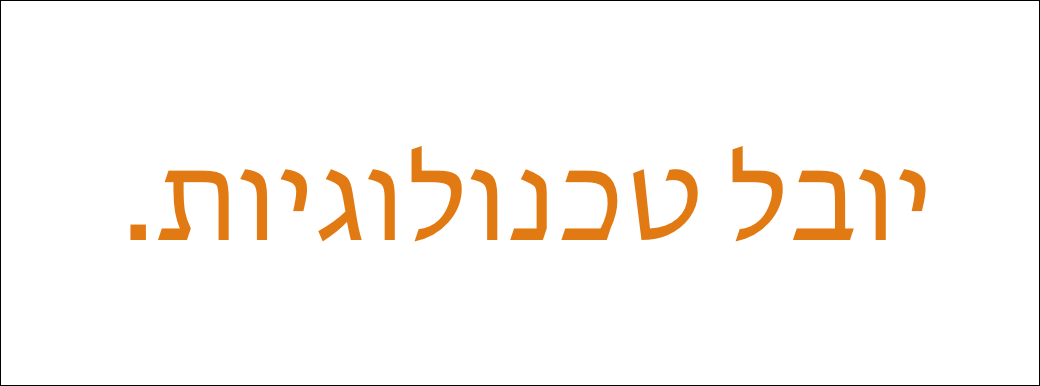
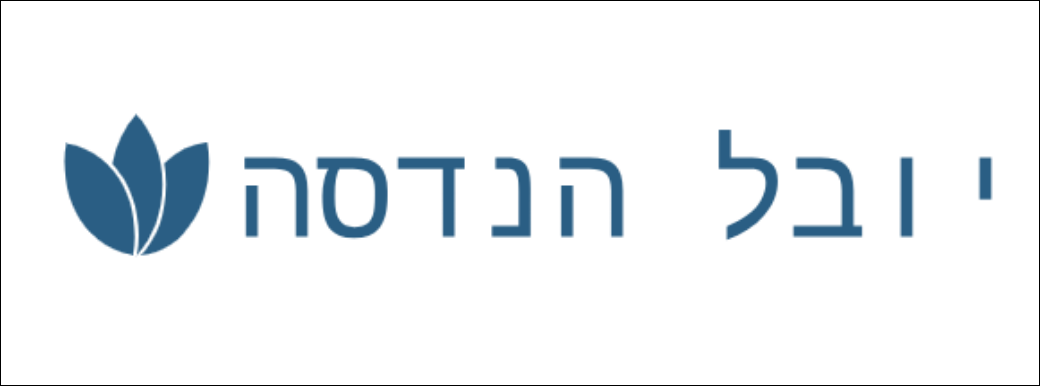
new

Changed region(s): [[0.0615, 0.2798, 0.8923, 0.6839], [0.9231, 0.4041, 0.9538, 0.5285]]

diff --git a/index.html b/index.html
@@ -7,7 +7,8 @@
 <html lang="he">
 <head>
 	<meta charset="utf-8" />
-	<title>Telephasic - תפריט קבוע למעלה, לבן בהובר, עמוד הבית באמצע</title>
+	<title>EasyVent - ניהול אירועים</title>
+	<link rel="icon" type="image/png" href="images/easyventlogomain.png">
 	<meta name="viewport" content="width=device-width, initial-scale=1, user-scalable=no" />
 
 	<!-- CSS הראשי של Telephasic -->
@@ -369,7 +370,7 @@
 			  </div>
 
 		<!-- ======== Services נוספים (מוסתר בהתחלה) ======== -->
-		<div class="wrapper features-background" id="extraServices" style="display: none;">
+		<div class="wrapper features-background" id="extraServices">
 			<section class="container">
 			  <header class="major reveal">
 				<h2>שירותים נוספים</h2>
@@ -530,7 +531,7 @@
 
 		
 		<!-- ======== בואו נתחיל ======== -->
-		<div class="wrapper" style="margin-top: 0px;">
+		<div class="wrapper" style="margin-top: 0px; margin-bottom: 170px;">
 			<div class="container">
 				<header class="major reveal">
 					<p style="font-size: 2.5em; font-weight: bold; color: #ff69b4; margin-bottom: 40px; text-shadow: 2px 2px 4px rgba(0,0,0,0.3);">
@@ -580,7 +581,7 @@
 				</div>
 			</div>
 		</div>
-		<div class="wrapper" id="pricing" style="margin-top: -250px;">
+		<div class="wrapper" id="pricing" style="margin-top: -250px; background-image: url('images/buildweb.png'); background-size: cover; background-position: center; padding: 20px 0 160px 0;">
 			<section class="container">
 			  <header class="major">
 				<p style="font-size: 2.5em; font-weight: bold; color: #ff69b4; margin-bottom: 40px; text-shadow: 2px 2px 4px rgba(0,0,0,0.3);">
@@ -588,10 +589,10 @@
 				  </p>
 							  </header>
 			  
-			  <div class="pricing-container">
-				<!-- חבילה משלימה -->
-				<div class="package">
-				  <h3>חבילה משלימה</h3>
+			<div class="pricing-container" style="display: flex; flex-wrap: wrap; gap: 30px; justify-content: center;">
+					<!-- חבילה משלימה -->
+					<div class="package" style="background: white; border-radius: 15px; padding: 20px; box-shadow: 0 4px 12px rgba(0,0,0,0.1); flex: 1 1 300px; max-width: 350px;">
+						<h3>חבילה משלימה</h3>
 
 				  <div class="package-details">
 					<ul>
@@ -639,43 +640,53 @@
 				  </div>
 				  <button class="purchase-button">רכישה</button>
 				</div>
-				
-				<!-- חבילה בסיסית -->
+				<!-- חבילה דיגיטלית -->
 				<div class="package">
-				  <h3>חבילה בסיסית</h3>
-				  <div class="package-details">
-					<ul>
-					  <li>✅ שליחת הזמנות <span class="highlight">אוטומטי ב-WhatsApp</span> (לאישור הגעה)</li>
-					  <li>✅ שליחת סבב נוסף <span class="highlight">אוטומטי ב-WhatsApp</span></li>
-					  <li>✅ סידור שולחנות <span class="highlight">אוטומטי</span></li>
-					</ul>
-				  </div>
-				  <h3 style="color: #fff;">.</h3>
-				  <h3 style="color: #fff;">.</h3>
-				  <h3 style="color: #fff;">.</h3>
-				  <h3 style="color: #fff;">.</h3>
-				  <h3 style="color: #fff;">.</h3>
-				  <h3 style="color: #fff;">.</h3>
-				  <h3 style="color: #fff;">.</h3>
-				  <h3 style="color: #fff;">.</h3>
-				  <h3 style="color: #fff;">.</h3>
-
-				  <div class="package-icons">
-					<div class="icon-item">
-					  <img src="assets/whatsapp.png" alt="WhatsApp Icon">
-					  <span>סבב ראשון</span>
+					<h3>חבילה דיגיטלית</h3>
+					<div class="package-details">
+					  <ul>
+						<li>✅ שליחת הזמנות <span class="highlight">אוטומטי ב-WhatsApp</span> (לאישור הגעה)</li>
+						<li>✅ שליחת סבב נוסף <span class="highlight">אוטומטי ב-WhatsApp</span></li>
+						<li>✅ שיחות לאורחים שלא אישרו הגעה ע"י מוקד אנושי</li>
+						<li>✅ סידור שולחנות <span class="highlight">אוטומטי</span></li>
+						<li>✅ שליחת תודות <span class="highlight">WhatsApp</span> אחרי האירוע</li>
+					  </ul>
+					  <p><strong>כוללת גם:</strong></p>
+					  <ul>
+						<li>✅ מענה טלפוני להתייעצות (8:00 - 20:00)</li>
+					  </ul>
 					</div>
-					<div class="icon-item">
-					  <img src="assets/whatsapp.png" alt="WhatsApp Icon">
-					  <span>סבב שני</span>
+					<h3 style="color: #fff;">.</h3>
+					<h3 style="color: #fff;">.</h3>
+					<div class="package-icons">
+					  <div class="icon-item">
+						<img src="assets/whatsapp.png" alt="WhatsApp Icon">
+						<span>סבב ראשון</span>
+					  </div>
+					  <div class="icon-item">
+						<img src="assets/whatsapp.png" alt="WhatsApp Icon">
+						<span>סבב שני</span>
+					  </div>
+					  <div class="icon-item">
+						<img src="assets/phone-call.png" alt="Phone Icon">
+						<span>סבב טלפוני</span>
+					  </div>
+					  <div class="icon-item">
+						<img src="assets/whatsapp.png" alt="WhatsApp Icon">
+						<span>תזכורת</span>
+					  </div>
+					  <div class="icon-item">
+						<img src="assets/whatsapp.png" alt="WhatsApp Icon">
+						<span>תודה רבה</span>
+					  </div>
 					</div>
+					<div class="package-price">
+					  <p>(<strong>מספר מוזמנים</strong> x 0.8₪)</p>
+					  <p>*המחיר לפי מספר מוזמנים</p>
+					</div>
+					<button class="purchase-button">רכישה</button>
 				  </div>
-				  <div class="package-price">
-					<p>(<strong>מספר מוזמנים</strong> x 0.4₪)</p>
-					<p>*המחיר לפי מספר מוזמנים</p>
-				  </div>
-				  <button class="purchase-button">רכישה</button>
-				</div>
+  
 				
 				<!-- חבילה פלוס -->
 				<div class="package">
@@ -722,52 +733,44 @@
 				  <button class="purchase-button">רכישה</button>
 				</div>
 				
-				<!-- חבילה דיגיטלית -->
+				
+				<!-- חבילה בסיסית -->
 				<div class="package">
-				  <h3>חבילה דיגיטלית</h3>
-				  <div class="package-details">
-					<ul>
-					  <li>✅ שליחת הזמנות <span class="highlight">אוטומטי ב-WhatsApp</span> (לאישור הגעה)</li>
-					  <li>✅ שליחת סבב נוסף <span class="highlight">אוטומטי ב-WhatsApp</span></li>
-					  <li>✅ שיחות לאורחים שלא אישרו הגעה ע"י מוקד אנושי</li>
-					  <li>✅ סידור שולחנות <span class="highlight">אוטומטי</span></li>
-					  <li>✅ שליחת תודות <span class="highlight">WhatsApp</span> אחרי האירוע</li>
-					</ul>
-					<p><strong>כוללת גם:</strong></p>
-					<ul>
-					  <li>✅ מענה טלפוני להתייעצות (8:00 - 20:00)</li>
-					</ul>
+					<h3>חבילה בסיסית</h3>
+					<div class="package-details">
+					  <ul>
+						<li>✅ שליחת הזמנות <span class="highlight">אוטומטי ב-WhatsApp</span> (לאישור הגעה)</li>
+						<li>✅ שליחת סבב נוסף <span class="highlight">אוטומטי ב-WhatsApp</span></li>
+						<li>✅ סידור שולחנות <span class="highlight">אוטומטי</span></li>
+					  </ul>
+					</div>
+					<h3 style="color: #fff;">.</h3>
+					<h3 style="color: #fff;">.</h3>
+					<h3 style="color: #fff;">.</h3>
+					<h3 style="color: #fff;">.</h3>
+					<h3 style="color: #fff;">.</h3>
+					<h3 style="color: #fff;">.</h3>
+					<h3 style="color: #fff;">.</h3>
+					<h3 style="color: #fff;">.</h3>
+					<h3 style="color: #fff;">.</h3>
+  
+					<div class="package-icons">
+					  <div class="icon-item">
+						<img src="assets/whatsapp.png" alt="WhatsApp Icon">
+						<span>סבב ראשון</span>
+					  </div>
+					  <div class="icon-item">
+						<img src="assets/whatsapp.png" alt="WhatsApp Icon">
+						<span>סבב שני</span>
+					  </div>
+					</div>
+					<div class="package-price">
+					  <p>(<strong>מספר מוזמנים</strong> x 0.4₪)</p>
+					  <p>*המחיר לפי מספר מוזמנים</p>
+					</div>
+					<button class="purchase-button">רכישה</button>
 				  </div>
-				  <h3 style="color: #fff;">.</h3>
-				  <h3 style="color: #fff;">.</h3>
-				  <div class="package-icons">
-					<div class="icon-item">
-					  <img src="assets/whatsapp.png" alt="WhatsApp Icon">
-					  <span>סבב ראשון</span>
-					</div>
-					<div class="icon-item">
-					  <img src="assets/whatsapp.png" alt="WhatsApp Icon">
-					  <span>סבב שני</span>
-					</div>
-					<div class="icon-item">
-					  <img src="assets/phone-call.png" alt="Phone Icon">
-					  <span>סבב טלפוני</span>
-					</div>
-					<div class="icon-item">
-					  <img src="assets/whatsapp.png" alt="WhatsApp Icon">
-					  <span>תזכורת</span>
-					</div>
-					<div class="icon-item">
-					  <img src="assets/whatsapp.png" alt="WhatsApp Icon">
-					  <span>תודה רבה</span>
-					</div>
-				  </div>
-				  <div class="package-price">
-					<p>(<strong>מספר מוזמנים</strong> x 0.8₪)</p>
-					<p>*המחיר לפי מספר מוזמנים</p>
-				  </div>
-				  <button class="purchase-button">רכישה</button>
-				</div>
+				  
 			  </div>
 			</section>
 		  </div>
@@ -803,10 +806,10 @@
 						  </div>
 						  
 						<header>
-							<h2>יובל טכנולוגיות</h2>
+							<h2>יובל הנדסה</h2>
 						</header>
 						<p>
-							יובל טכנולוגיות הינה חברה לפיתוח ויישום תוכנה. בין היתר, אנו מציעים שירותי אוטומציה למכשירים השונים. ניתן לפנות אלינו דרך האתר או באמצעות הודעת וואטסאפ במספר 0542455869
+							יובל הנדסה הינה חברה לפיתוח ויישום תוכנה. בין היתר, אנו מציעים שירותי אוטומציה למכשירים השונים. ניתן לפנות אלינו דרך האתר או באמצעות הודעת וואטסאפ במספר 0542455869
 						</p>
 						<ul class="actions">
 							<li><a href="bulding.html" class="button">לאתר החברה</a></li>
@@ -1274,24 +1277,35 @@
 
 	<!-- סקריפט לכפתור "שירותים נוספים" -->
 	<script>
-		document.addEventListener('DOMContentLoaded', () => {
-			const extraServicesBtn = document.getElementById('extraServicesBtn');
-			const extraServices = document.getElementById('extraServices');
-			let open = false;
+document.addEventListener('DOMContentLoaded', () => {
+  const extraServicesBtn = document.getElementById('extraServicesBtn');
+  const extraServices = document.getElementById('extraServices');
+  const mainFeatures = document.getElementById('main-features');
+  let open = false;
 
-			extraServicesBtn?.addEventListener('click', (e) => {
-				e.preventDefault();
-				if(!open) {
-					extraServices.style.display = 'block';
-					extraServicesBtn.textContent = 'סגור שירותים נוספים';
-					open = true;
-				} else {
-					extraServices.style.display = 'none';
-					extraServicesBtn.textContent = 'שירותים נוספים';
-					open = false;
-				}
-			});
-		});
+  extraServicesBtn?.addEventListener('click', (e) => {
+    e.preventDefault();
+
+    if (!open) {
+      extraServices.classList.add('open');
+      extraServicesBtn.textContent = 'סגור שירותים נוספים';
+      open = true;
+
+      setTimeout(() => {
+        extraServices.scrollIntoView({ behavior: 'smooth', block: 'start' });
+      }, 400);
+    } else {
+      extraServices.classList.remove('open');
+      extraServicesBtn.textContent = 'שירותים נוספים';
+      open = false;
+
+      setTimeout(() => {
+        mainFeatures.scrollIntoView({ behavior: 'smooth', block: 'start' });
+      }, 400);
+    }
+  });
+});
+
 	</script>
 </body>
 </html>

diff --git a/assets/css/main.css b/assets/css/main.css
@@ -3147,6 +3147,8 @@ transform: translate(-50%, -50%);
 		flex-wrap: nowrap;           /* מונע שבירה לשורות נוספות */
 		gap: 0px;
 		justify-content: center;
+		padding-top: 100px; /* נסה בין 80-120px */
+
 		margin-top: 0px;
 		overflow-x: auto;           /* במקרה שהמסך קטן – מתאפשר גלילה אופקית */
 	  }
@@ -3301,7 +3303,30 @@ transform: translate(-50%, -50%);
   }
   
   
+  .package {
+	transition: transform 0.3s ease, box-shadow 0.3s ease;
+	position: relative;
+	z-index: 10;
+  }
+  .package:hover {
+	transform: translateY(-10px);
+	box-shadow: 0 12px 25px rgba(0, 0, 0, 0.2);
+  }
+  .package:hover {
+	background-color: #fafafa;
+  }
   
   
-
+  #extraServices {
+	overflow: hidden;
+	max-height: 0;
+	transition: max-height 0.6s ease, opacity 0.4s ease;
+	opacity: 0;
+  }
+  
+  #extraServices.open {
+	max-height: 1000px; /* שים לב – אתה יכול להגדיל לפי הצורך */
+	opacity: 1;
+  }
+  
   
